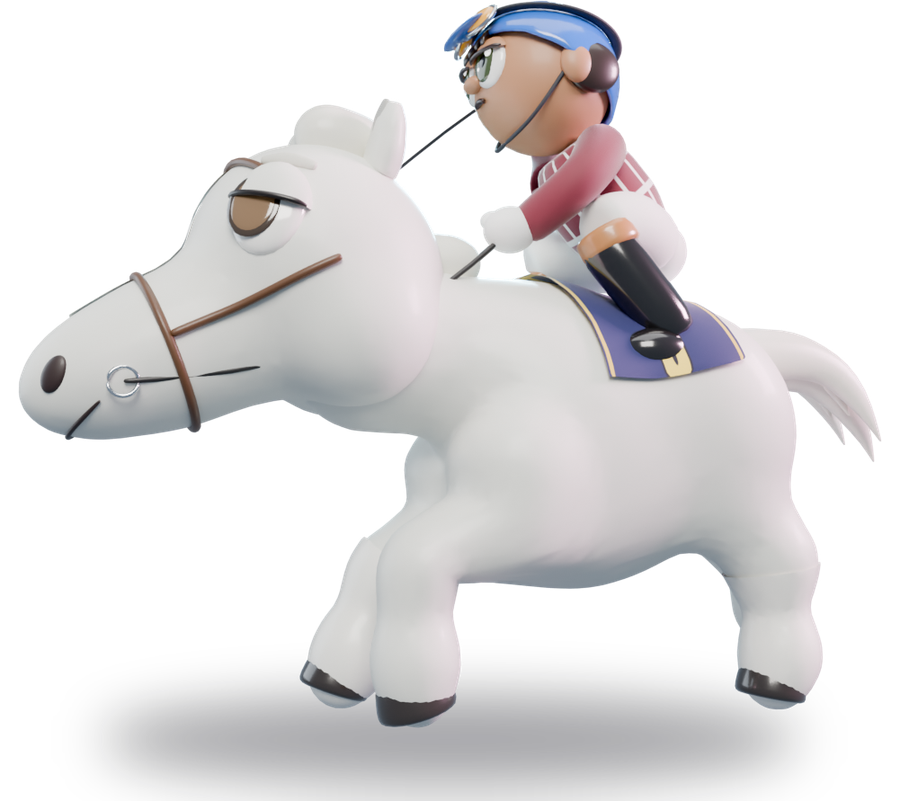
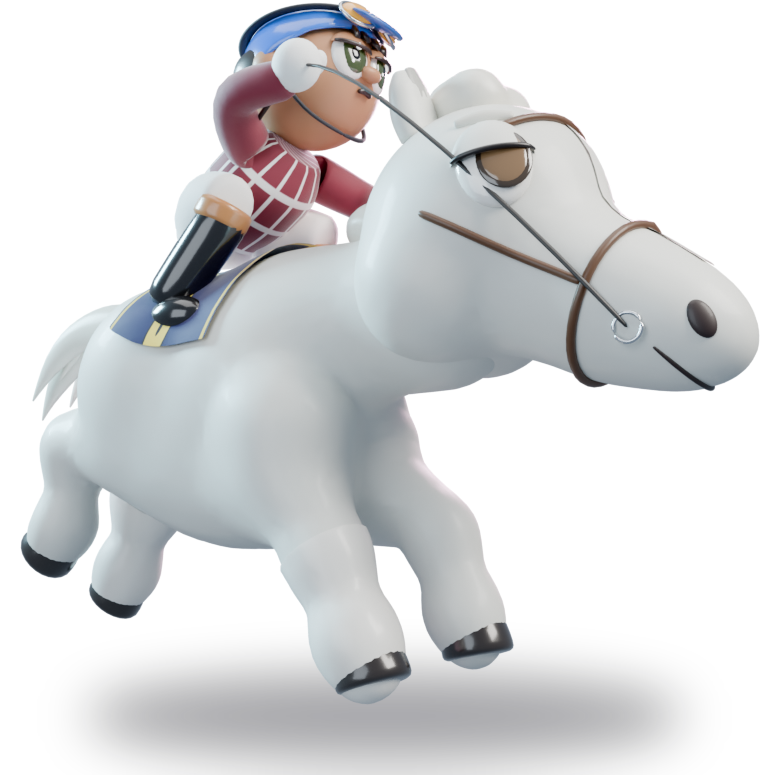
02 章扉のキャラを描き直す（前に沈んで鞭、宙に浮く脚）

diff --git a/index.html b/index.html
@@ -1,4 +1,4 @@
-<!doctype html><html lang="ja"><head><meta charset="utf-8"><!doctype html><html lang="ja"><head><meta name="robots" content="noindex,nofollow,noarchive"><meta name="viewport" content="width=device-width,initial-scale=1"><meta charset="utf-8"><title>中間発表 2026-11-29（v2）</title><style><title>中間発表 2026-11-29（v2）</title><style>
+<!doctype html><html lang="ja"><head><meta charset="utf-8"><!doctype html><html lang="ja"><head><meta charset="utf-8"><!doctype html><html lang="ja"><head><meta name="robots" content="noindex,nofollow,noarchive"><meta name="viewport" content="width=device-width,initial-scale=1"><meta charset="utf-8"><title>中間発表 2026-11-29（v2）</title><style><title>中間発表 2026-11-29（v2）</title><style><title>中間発表 2026-11-29（v2）</title><style>
 :root{--frame:#37628c;--navy:#38638d;--orange:#d37827;--ink:#000000}
 *{box-sizing:border-box}
 html,body{margin:0;background:#202020}
